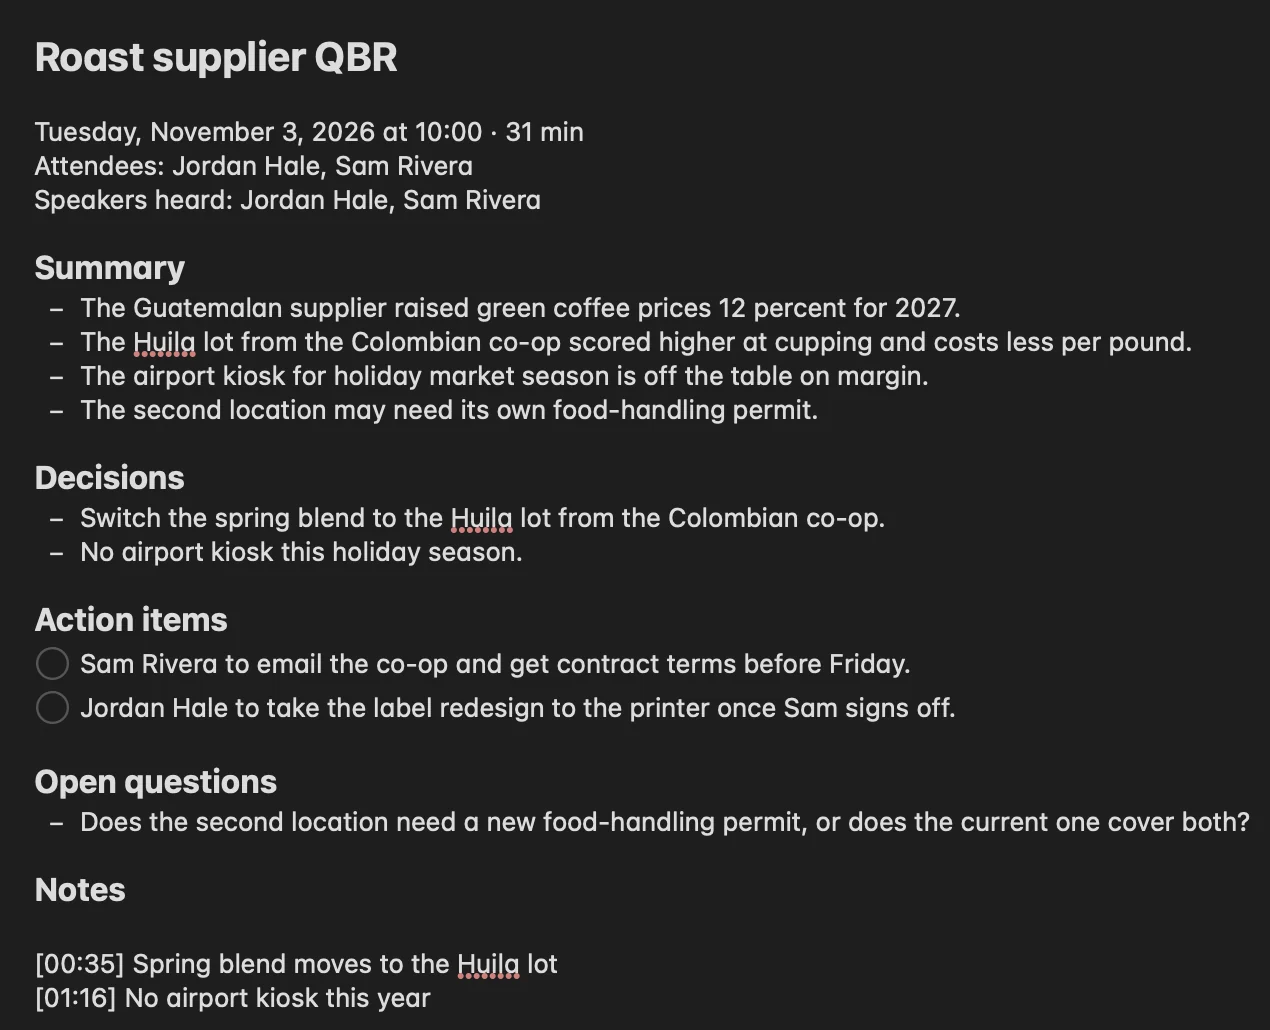
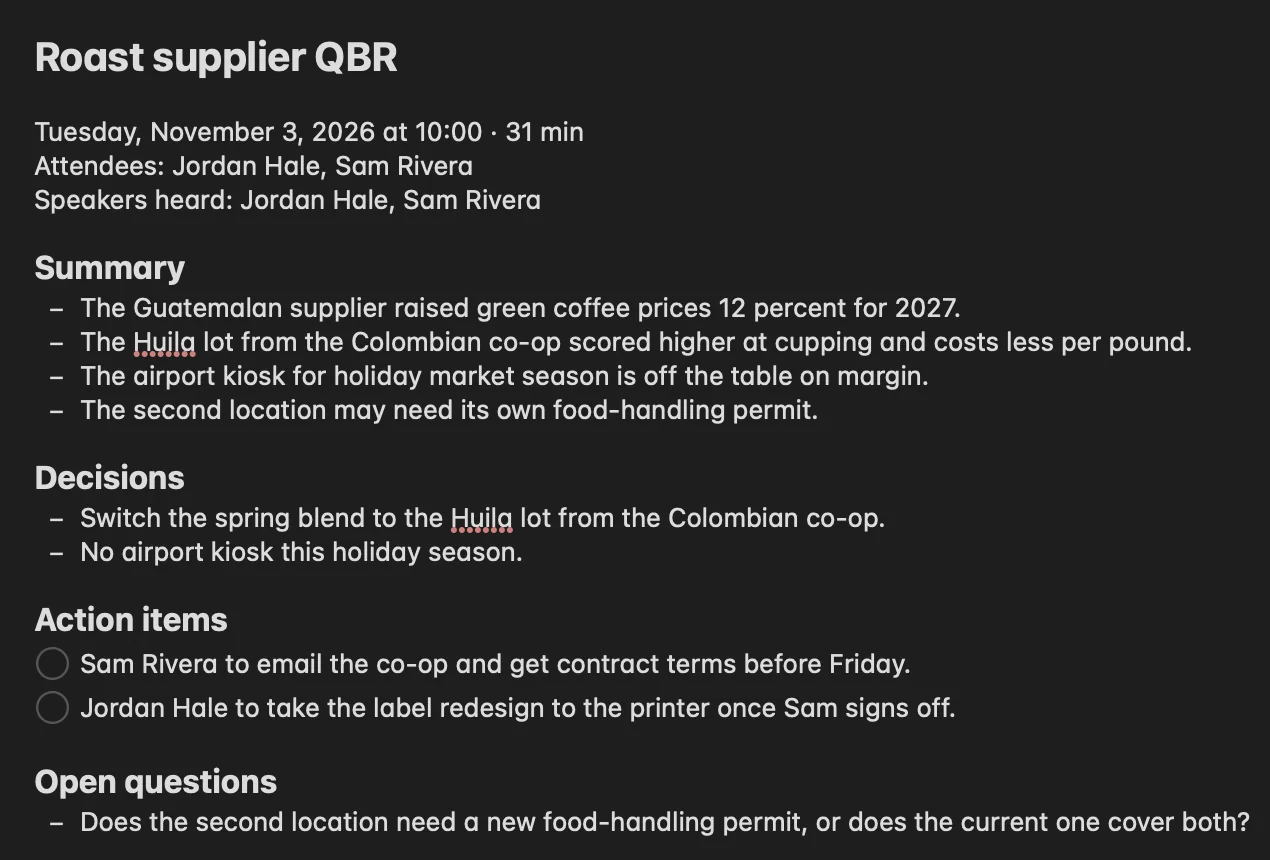
Site deploy 2026-11-09: meeting notes as plain bullets (#11)
Deploys Aloe-Scribe 6b6665a. Feed unchanged at Windows 1.3.37 and Mac 1.3.37.

Changed region(s): [[0.0307, 0.1209, 0.9827, 0.9977], [0.0307, 0.0302, 0.3071, 0.0907]]

diff --git a/index.html b/index.html
@@ -415,7 +415,7 @@
               <p class="when"><span class="num">1</span><span class="kicker">During the call</span></p>
               <h3>Press record and watch the words land.</h3>
               <p>Aloe Scribe captures your microphone and the call on separate channels. It works with Zoom, Teams, Meet or any app that plays sound. The live transcript shows it is working, and the Mic and Call bars move only for sound that is being heard and transcribed.</p>
-              <p>Click a name while someone talks and every line in that voice gets the name, in this meeting and the next. Voice fingerprints stay on your computer. Type a note at any point and it keeps its timestamp.</p>
+              <p>Click a name while someone talks and every line in that voice gets the name, in this meeting and the next. Voice fingerprints stay on your computer. Jot notes as you go, a dash and a few words. They land in the finished note as a Markdown list.</p>
             </div>
             <div class="win shot inline-shot">
               <div class="win-bar"><i></i><i></i><i></i><span>Roast supplier QBR</span></div>
@@ -434,8 +434,8 @@
             </div>
             <div class="win shot inline-shot">
               <div class="win-bar"><i></i><i></i><i></i><span>Roast supplier QBR</span></div>
-              <img class="l" src="assets/app/light-final-note.webp" width="1960" height="1720" alt="The finished note with its header, summary, decisions, action items and open questions." loading="lazy">
-              <img class="d" src="assets/app/dark-final-note.webp" width="1960" height="1720" alt="" aria-hidden="true" loading="lazy">
+              <img class="l" src="assets/app/light-final-note.webp" width="1960" height="1836" alt="The finished note with its header, summary, decisions, action items and open questions, and the notes typed during the call as a list at the end." loading="lazy">
+              <img class="d" src="assets/app/dark-final-note.webp" width="1960" height="1836" alt="" aria-hidden="true" loading="lazy">
             </div>
           </article>
 
@@ -462,8 +462,8 @@
           </div>
           <div class="win shot stage-shot" data-shot="1">
             <div class="win-bar"><i></i><i></i><i></i><span>Roast supplier QBR</span></div>
-            <img class="l" src="assets/app/light-final-note.webp" width="1960" height="1720" alt="">
-            <img class="d" src="assets/app/dark-final-note.webp" width="1960" height="1720" alt="">
+            <img class="l" src="assets/app/light-final-note.webp" width="1960" height="1836" alt="">
+            <img class="d" src="assets/app/dark-final-note.webp" width="1960" height="1836" alt="">
           </div>
           <div class="win shot stage-shot" data-shot="2">
             <div class="win-bar"><i></i><i></i><i></i><span>Ask your notes</span></div>
@@ -531,6 +531,10 @@
 <span class="h">## Action items</span>
 - [ ] Sam Rivera to email the co-op and get contract terms before Friday.
 
+<span class="h">## Notes</span>
+- Spring blend moves to the Huila lot
+- Sam to get co-op terms by Friday
+
 <span class="h">## Transcript</span>
 [00:29] Jordan Hale: Then let's switch the spring blend to the Huila lot. Agreed?
 [00:33] Sam Rivera: Agreed. I'll email the co-op tomorrow.</pre></div>
@@ -561,7 +565,7 @@
               <p>Your notes folder stays the original. Re-import a note when it changes.</p>
             </div>
             <div class="fpanel">
-              <div class="win shot"><div class="win-bar"><i></i><i></i><i></i><span>Notes</span></div><img class="l" src="assets/app/light-notes-qbr.webp" width="1270" height="1030" alt="The supplier review imported into Apple Notes, with its headings and lists as rich text and the action items as checkboxes." loading="lazy"><img class="d" src="assets/app/dark-notes-qbr.webp" width="1270" height="1030" alt="" aria-hidden="true" loading="lazy"></div>
+              <div class="win shot"><div class="win-bar"><i></i><i></i><i></i><span>Notes</span></div><img class="l" src="assets/app/light-notes-qbr.webp" width="1270" height="860" alt="The supplier review imported into Apple Notes, with its headings and lists as rich text and the action items as checkboxes." loading="lazy"><img class="d" src="assets/app/dark-notes-qbr.webp" width="1270" height="860" alt="" aria-hidden="true" loading="lazy"></div>
             </div>
           </article>
           <article class="fstep">
